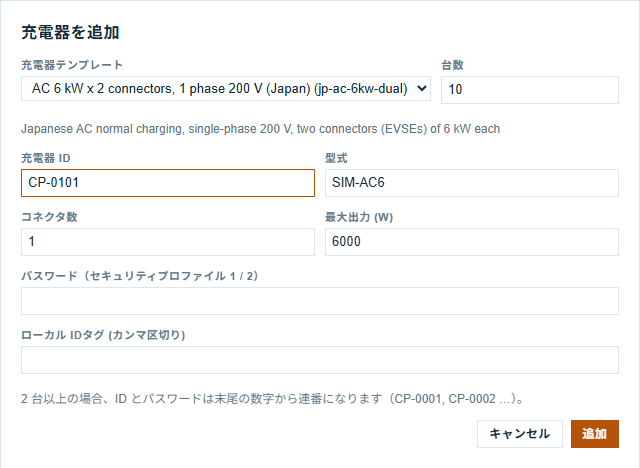
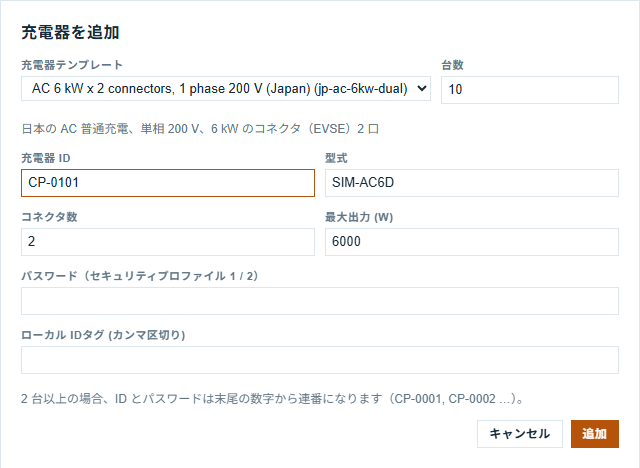
fix: Add charger dialog shows the selected template's values and localized description
The template catalog now carries 'fields' (model / connectors / max power a charger gets from the template) and, for the built-ins, 'descriptions' per UI language (en/ja/zh). The dialog fills its disabled manual fields with the template's values, restores the typed values when switching back to no template, and shows the description in the UI language. Refreshed add-charger screenshots.

Changed region(s): [[0.0312, 0.2393, 0.7812, 0.2991], [0.0312, 0.5085, 0.0625, 0.5385]]

diff --git a/sme_ocpp_sim/static/app.js b/sme_ocpp_sim/static/app.js
@@ -806,12 +806,26 @@ async function openFrameDetail(seq) {
 }
 
 // Add charger(s): plain defaults or a charger template, one or N at once (POST /api/chargers/bulk/create).
-const ADD = { templates: [] };
+// With a template picked, the (disabled) manual fields show its values; ADD.manual keeps what was typed for
+// "no template".
+const ADD = { templates: [], manual: null };
+const ADD_FIELDS = { addModel: "model", addConnectors: "connectors", addPower: "max_power_w" };
 
 function syncAddTemplate() {
   const tpl = ADD.templates.find((x) => x.name === $("addTemplate").value);
-  for (const id of ["addModel", "addConnectors", "addPower"]) $(id).disabled = !!tpl;
-  $("addTemplateInfo").textContent = tpl ? (tpl.description || tpl.title) : "";
+  if (tpl) {
+    if (!ADD.manual) ADD.manual = Object.fromEntries(Object.keys(ADD_FIELDS).map((id) => [id, $(id).value]));
+    for (const [id, key] of Object.entries(ADD_FIELDS)) {
+      const v = (tpl.fields || {})[key];
+      if (v !== undefined && v !== null) $(id).value = v;
+    }
+  } else if (ADD.manual) {
+    for (const [id, v] of Object.entries(ADD.manual)) $(id).value = v;
+    ADD.manual = null;
+  }
+  for (const id of Object.keys(ADD_FIELDS)) $(id).disabled = !!tpl;
+  const lang = (document.documentElement.lang || "en").slice(0, 2);
+  $("addTemplateInfo").textContent = tpl ? ((tpl.descriptions || {})[lang] || tpl.description || tpl.title) : "";
 }
 
 async function openAddChargerDialog() {

diff --git a/sme_ocpp_sim/templates_builtin.py b/sme_ocpp_sim/templates_builtin.py
@@ -81,12 +81,35 @@ class ChargerTemplates(TemplateRegistry):
         return Path(env).expanduser() if env else user_data_dir() / "templates"
 
     def register_charger(self, name: str, title: str, fields: Dict[str, Any], *, description: str,
-                         params: Optional[Dict[str, Any]] = None) -> None:
+                         params: Optional[Dict[str, Any]] = None,
+                         descriptions: Optional[Dict[str, str]] = None) -> None:
+        """``descriptions``: the description in other UI languages (``{"ja": ..., "zh": ...}``; English is
+        ``description``)."""
         unknown = set(fields) - set(TEMPLATE_FIELDS)
         if unknown:
             raise ValueError(f"template {name}: not template fields {sorted(unknown)}")
         self.register(name, title, dict(params or {}), lambda _p: [], description)
         self.builtins[name]["extras"] = dict(fields)
+        if descriptions:
+            self.builtins[name]["descriptions"] = {"en": description, **descriptions}
+
+    def catalog(self) -> List[Dict[str, Any]]:
+        """The base catalog plus, per template, ``fields``: the model / connectors / max power a charger gets
+        from it with the default params (what the Add charger dialog shows), and ``descriptions`` (per UI
+        language) for the built-ins that have them."""
+        from .config import ChargerConfig
+
+        out = super().catalog()
+        for e in out:
+            t = self.get(e["name"]) or {}
+            if t.get("descriptions"):
+                e["descriptions"] = dict(t["descriptions"])
+            try:
+                ref = ChargerConfig.model_validate({"id": "template-ref", "template": e["name"]})
+                e["fields"] = {k: getattr(ref, k) for k in _DIALOG_FIELDS}
+            except (ValueError, TypeError):
+                pass  # cannot be expanded: the dialog keeps its own values
+        return out
 
     def _user_template(self, data: Any, path) -> Dict[str, Any]:
         t = super()._user_template(data, path)
@@ -126,6 +149,9 @@ def _substituted(t: Dict[str, Any]) -> Dict[str, Any]:
 
     return {k: substitute(v, dict(t["params"])) for k, v in (t.get("extras") or {}).items()}
 
+
+#: Fields the Add charger dialog shows (catalog `fields`).
+_DIALOG_FIELDS = ("model", "connectors", "max_power_w")
 
 REGISTRY = ChargerTemplates()
 _loaded = False
@@ -199,23 +225,35 @@ def next_ids(first: str, count: int) -> List[str]:
 # ------------------------------------------------------------------ built-in templates
 
 _JP = "Japanese AC normal charging, single-phase 200 V"
+_JP_JA = "日本の AC 普通充電、単相 200 V"
+_JP_ZH = "日本 AC 普通充电，单相 200 V"
 REGISTRY.register_charger("jp-ac-3kw", "AC 3 kW, 1 phase 200 V 15 A (Japan)",
                           {"model": "SIM-AC3", "connectors": 1, "max_power_w": 3000.0, "voltage_v": 200.0,
                            "phases": 1, "line_to_line": False},
-                          description=f"{_JP}, 15 A (e.g. a home or hotel outlet-type charger)")
+                          description=f"{_JP}, 15 A (e.g. a home or hotel outlet-type charger)",
+                          descriptions={"ja": f"{_JP_JA}、15 A（住宅・ホテルのコンセント型充電器など）",
+                                        "zh": f"{_JP_ZH}，15 A（如住宅、酒店的插座型充电器）"})
 REGISTRY.register_charger("jp-ac-6kw", "AC 6 kW, 1 phase 200 V 30 A (Japan)",
                           {"model": "SIM-AC6", "connectors": 1, "max_power_w": 6000.0, "voltage_v": 200.0,
                            "phases": 1, "line_to_line": False},
-                          description=f"{_JP}, 30 A (the typical public / workplace wallbox)")
+                          description=f"{_JP}, 30 A (the typical public / workplace wallbox)",
+                          descriptions={"ja": f"{_JP_JA}、30 A（公共・職場向けの一般的な壁掛け型充電器）",
+                                        "zh": f"{_JP_ZH}，30 A（典型的公共 / 办公场所壁挂式充电桩）"})
 REGISTRY.register_charger("jp-ac-6kw-dual", "AC 6 kW x 2 connectors, 1 phase 200 V (Japan)",
                           {"model": "SIM-AC6D", "connectors": 2, "max_power_w": 6000.0, "voltage_v": 200.0,
                            "phases": 1, "line_to_line": False},
-                          description=f"{_JP}, two connectors (EVSEs) of 6 kW each")
+                          description=f"{_JP}, two connectors (EVSEs) of 6 kW each",
+                          descriptions={"ja": f"{_JP_JA}、6 kW のコネクタ（EVSE）2 口",
+                                        "zh": f"{_JP_ZH}，2 个 6 kW 连接器（EVSE）"})
 REGISTRY.register_charger("eu-ac-11kw", "AC 11 kW, 3 phase 230/400 V 16 A",
                           {"model": "SIM-AC11", "connectors": 1, "max_power_w": 11000.0, "voltage_v": 230.0,
                            "phases": 3, "line_to_line": False},
-                          description="European three-phase wallbox, 16 A per phase (voltage given per phase)")
+                          description="European three-phase wallbox, 16 A per phase (voltage given per phase)",
+                          descriptions={"ja": "欧州の三相壁掛け型充電器、各相 16 A（電圧は相電圧）",
+                                        "zh": "欧洲三相壁挂式充电桩，每相 16 A（电压为相电压）"})
 REGISTRY.register_charger("eu-ac-22kw", "AC 22 kW, 3 phase 230/400 V 32 A",
                           {"model": "SIM-AC22", "connectors": 1, "max_power_w": 22000.0, "voltage_v": 230.0,
                            "phases": 3, "line_to_line": False},
-                          description="European three-phase charger, 32 A per phase (voltage given per phase)")
+                          description="European three-phase charger, 32 A per phase (voltage given per phase)",
+                          descriptions={"ja": "欧州の三相充電器、各相 32 A（電圧は相電圧）",
+                                        "zh": "欧洲三相充电桩，每相 32 A（电压为相电压）"})

diff --git a/tests/test_templates.py b/tests/test_templates.py
@@ -43,6 +43,14 @@ def test_builtin_catalog():
     assert entry["source"] == "builtin" and "200 V" in entry["title"] and entry["description"]
 
 
+def test_catalog_has_dialog_fields_and_descriptions_per_language():
+    cat = {e["name"]: e for e in registry().catalog()}
+    assert cat["jp-ac-6kw-dual"]["fields"] == {"model": "SIM-AC6D", "connectors": 2, "max_power_w": 6000.0}
+    for e in (cat[n] for n in ("jp-ac-3kw", "jp-ac-6kw", "jp-ac-6kw-dual", "eu-ac-11kw", "eu-ac-22kw")):
+        d = e["descriptions"]
+        assert d["en"] == e["description"] and d["ja"] and d["zh"] and d["ja"] != d["en"]
+
+
 def test_explicit_fields_override_template_and_dump_keeps_only_overrides():
     cfg = _cfg({"id": "A", "template": "jp-ac-6kw-dual", "max_power_w": 3000, "model": "SIM-AC6D"},
                {"id": "B", "template": "eu-ac-22kw", "config_keys": {"HeartbeatInterval": 60}})
